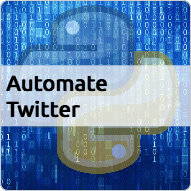
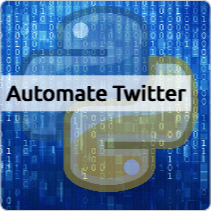
added featured images for every post

diff --git a/content/py-mistakes.md b/content/py-mistakes.md
@@ -5,6 +5,7 @@ Tags: best practices, pep8, virtualenv, cleancode, logging, pytest, ebook, refac
 Slug: py-mistakes
 Authors: Bob
 Summary: In this post I summarize some great lessons Mike Pirnat shared in his free ebook 'How to make mistakes in Python'
+cover: images/featured/python-mistakes.png
 
 There are some great [free Python O'Reilly ebooks](http://www.oreilly.com/programming/free/). In this post some useful tips from Mike Pirnat's [How to make mistakes in Python](http://www.oreilly.com/programming/free/how-to-make-mistakes-in-python.csp?intcmp=il-prog-free-product-lgen_python_mistakes):
 

diff --git a/content/jul_atbs_review.md b/content/jul_atbs_review.md
@@ -5,6 +5,7 @@ Tags: python, review, books, learning, beginners, automation
 Slug: automate_the_boring_stuff_review
 Authors: Julian
 Summary: A quick review of the legendary free book, Automate the Boring Stuff.
+cover: images/featured/atbs-review.png
 
 When he convinced me to learn Python, Bob (co-creator of [pybit.es](http://www.pybit.es)) recommended I start by reading the book [*Automate the Boring Stuff*](https://www.automatetheboringstuff.com) by Al Sweigart, which is free to read online.
 

diff --git a/content/welcome.md b/content/welcome.md
@@ -5,6 +5,7 @@ Tags: pelican, publishing, blog, pybites
 Slug: hello-world
 Authors: Pybites
 Summary: Welcome to our new PyBites blog where our goal is to further develop our Python skills and share what we learn.
+cover: images/featured/init.png
 
 Welcome to our PyBites blog hosted by [Julian](http://www.techmoneykids.com) and [Bob](http://www.bobcodes.it).
 

diff --git a/content/jul_virtualenv_article.md b/content/jul_virtualenv_article.md
@@ -5,7 +5,7 @@ Tags: python, pip, virtualenv, venv
 Slug: the-beauty-of-virtualenv
 Authors: Julian
 Summary: Python Virtualenvs are incredible yet sadly under utilised!
-
+cover: images/featured/python-virtualenvs.png
 
 Ever heard of a Python virtualenv? No? Neither had I, until I discovered them while following a video course on Python Flask.
 

diff --git a/content/zip-and-ship.md b/content/zip-and-ship.md
@@ -5,6 +5,7 @@ Tags: zip, packaging, distribute, pip
 Slug: zip-and-ship
 Authors: Bob
 Summary: In this post I show an example how you can distribute your code as an executable zipfile, a neat trick I discovered in Chapter 6 of The Hitchhiker's Guide to Python
+cover: images/featured/zip-and-ship.png
 
 ## Get started
 

diff --git a/content/deque.md b/content/deque.md
@@ -5,6 +5,7 @@ Tags: collections, data structures, performance, stdlib, deque
 Slug: collections-deque
 Authors: Bob
 Summary: Use collections.deque to rotate letters in string (or elements in list). It has a native method which performs faster too.
+cover: images/featured/collections-deque.png
 
 ## Deque
 

diff --git a/content/install-guide.md b/content/install-guide.md
@@ -5,6 +5,7 @@ Tags: pelican, publishing, github, pip, virtualenv, git
 Slug: install-me
 Authors: Pybites
 Summary: This is a short post for Julian to get this Pelican blog up and running on his system.
+cover: images/featured/pybites-installer.png
 
 This is also a useful ref for future collaborators ...
 

diff --git a/content/kindle-notes.md b/content/kindle-notes.md
@@ -5,6 +5,7 @@ Tags: kindle, Template strings, json, html, books, bookcision, generators,
 Slug: kindle-json-to-html
 Authors: Bob
 Summary: In this post I share a simple script to convert Bookcision JSON into a HTML page for your blog.
+cover: images/featured/kindle-json2html.png
 
 ## Kindle notes
 

diff --git a/content/py-articles-books2016.md b/content/py-articles-books2016.md
@@ -5,6 +5,7 @@ Tags: pythonic, books, collections, tricks, tips, data science, matplotlib, pand
 Slug: py-articles-books2016
 Authors: Bob
 Summary: Some of my Python articles I posted on my blog this year and useful books
+cover: images/featured/2016-books-posts.png
 
 ## Posts
 

diff --git a/content/digest.md b/content/digest.md
@@ -5,6 +5,7 @@ Tags: pelican, feedparser, rss
 Slug: blog-digest
 Authors: Bob
 Summary: In this post a script we use to get a weekly digest of our posts.
+cover: images/featured/pelican-blog-digest.png
 
 ## Prep work
 
